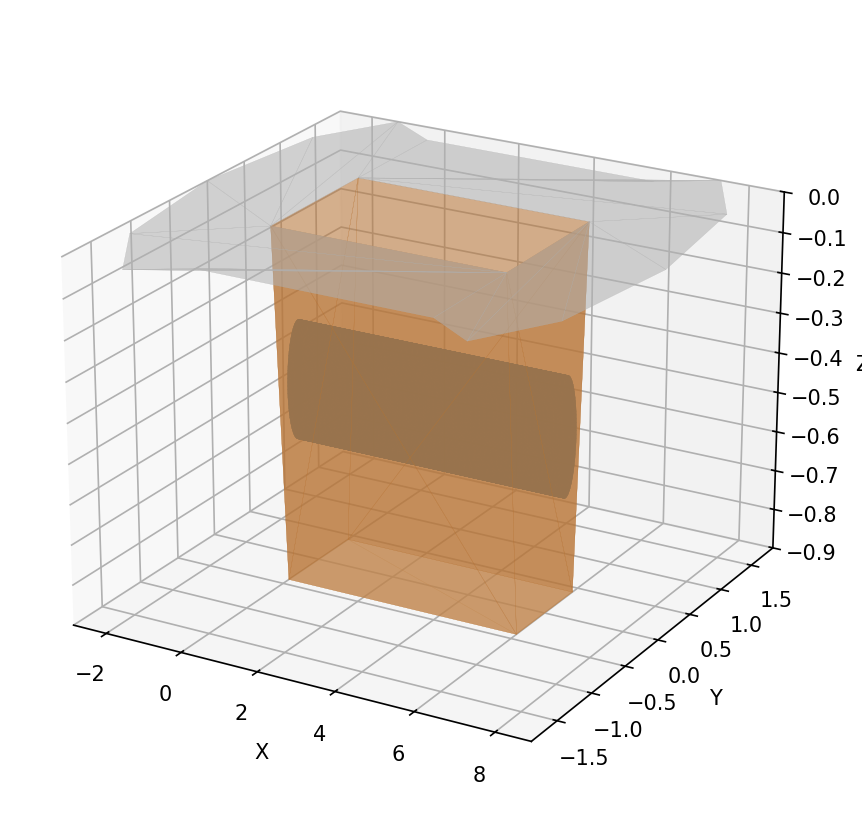
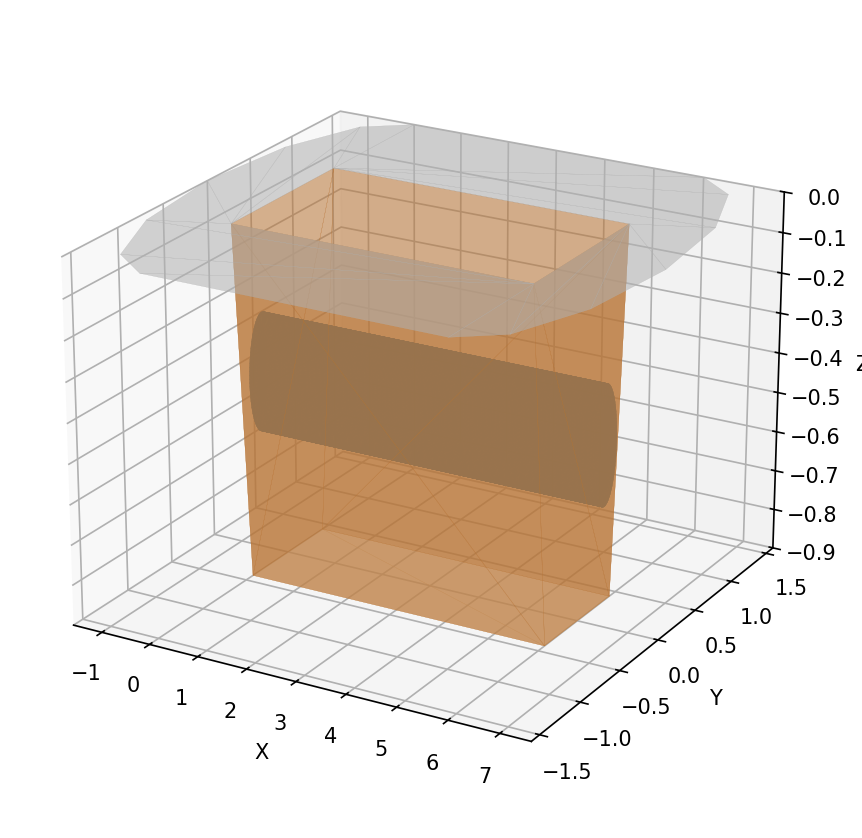
Fix ground end caps to not overlap trench opening
The semicircular caps were incorrectly offset along the tangent direction,
causing them to overlap with the trench opening. Fixed by centering caps
at path endpoints with radius equal to the offset distance.

🤖 Generated with [Claude Code](https://claude.com/claude-code)

diff --git a/packages/trenchfoot/trench_scene_generator_v3.py b/packages/trenchfoot/trench_scene_generator_v3.py
@@ -550,42 +550,34 @@ def _ring_from_LR(L: List[np.ndarray], R: List[np.ndarray]) -> np.ndarray:
 
 def _ring_from_LR_with_end_caps(
     L: List[np.ndarray], R: List[np.ndarray],
-    path_xy: List[Tuple[float, float]], end_extension: float, n_cap_points: int = 5
+    path_xy: List[Tuple[float, float]], n_cap_points: int = 5
 ) -> np.ndarray:
     """Create a ring from L/R offsets with semicircular end caps.
 
-    Extends the outer boundary past the path endpoints to create ground buffer
-    at the ends of open trenches.
+    The caps are semicircles centered at the path endpoints, with radius equal
+    to the offset distance. This creates a "stadium" (discorectangle) shape that
+    extends past the trench endpoints to provide ground buffer.
     """
     P = np.array(path_xy, float)
 
-    # Get tangent directions at endpoints
-    t_start = _normalize(P[1] - P[0])
-    t_end = _normalize(P[-1] - P[-2])
-
-    # Start cap: semicircle from R[0] around to L[0], extending in -t_start direction
-    # Center of cap is at path start, offset backward by end_extension
-    cap_center_start = P[0] - end_extension * t_start
-    # Radius is distance from center to L[0] or R[0]
+    # Start cap: semicircle from R[0] around to L[0], centered at path start
+    cap_center_start = P[0]
     radius_start = np.linalg.norm(np.array(L[0]) - cap_center_start)
 
-    # Generate semicircle points from R[0] to L[0] going around the back
-    # R[0] is at angle theta_r, L[0] is at angle theta_l
-    # We go from theta_r counterclockwise to theta_l (the long way around the back)
     vec_r = np.array(R[0]) - cap_center_start
     vec_l = np.array(L[0]) - cap_center_start
     theta_r = np.arctan2(vec_r[1], vec_r[0])
     theta_l = np.arctan2(vec_l[1], vec_l[0])
 
-    # Ensure we go the "back" way (counterclockwise from R to L)
+    # Go around the back (away from trench direction) from R[0] to L[0]
     if theta_l > theta_r:
         theta_l -= 2 * np.pi
 
-    angles_start = np.linspace(theta_r, theta_l, n_cap_points + 2)[1:-1]  # Exclude endpoints (already have R[0], L[0])
+    angles_start = np.linspace(theta_r, theta_l, n_cap_points + 2)[1:-1]
     cap_start = [cap_center_start + radius_start * np.array([np.cos(a), np.sin(a)]) for a in angles_start]
 
-    # End cap: semicircle from L[-1] around to R[-1], extending in +t_end direction
-    cap_center_end = P[-1] + end_extension * t_end
+    # End cap: semicircle from L[-1] around to R[-1], centered at path end
+    cap_center_end = P[-1]
     radius_end = np.linalg.norm(np.array(L[-1]) - cap_center_end)
 
     vec_l_end = np.array(L[-1]) - cap_center_end
@@ -593,7 +585,7 @@ def _ring_from_LR_with_end_caps(
     theta_l_end = np.arctan2(vec_l_end[1], vec_l_end[0])
     theta_r_end = np.arctan2(vec_r_end[1], vec_r_end[0])
 
-    # Go counterclockwise from L[-1] to R[-1] (the back way)
+    # Go around the back from L[-1] to R[-1]
     if theta_r_end > theta_l_end:
         theta_r_end -= 2 * np.pi
 
@@ -859,7 +851,7 @@ def make_ground_surface_plane(path_xy: List[Tuple[float,float]], width_top: floa
         # Outer boundary: offset by additional margin, with semicircular end caps
         L_outer, R_outer = _offset_polyline(path_xy, half_top + m)
         outer_ring = _ensure_ccw(_ring_from_LR_with_end_caps(
-            L_outer, R_outer, path_xy, end_extension=m
+            L_outer, R_outer, path_xy
         ))
 
         # Triangulate the annular region (leaves hole open)
